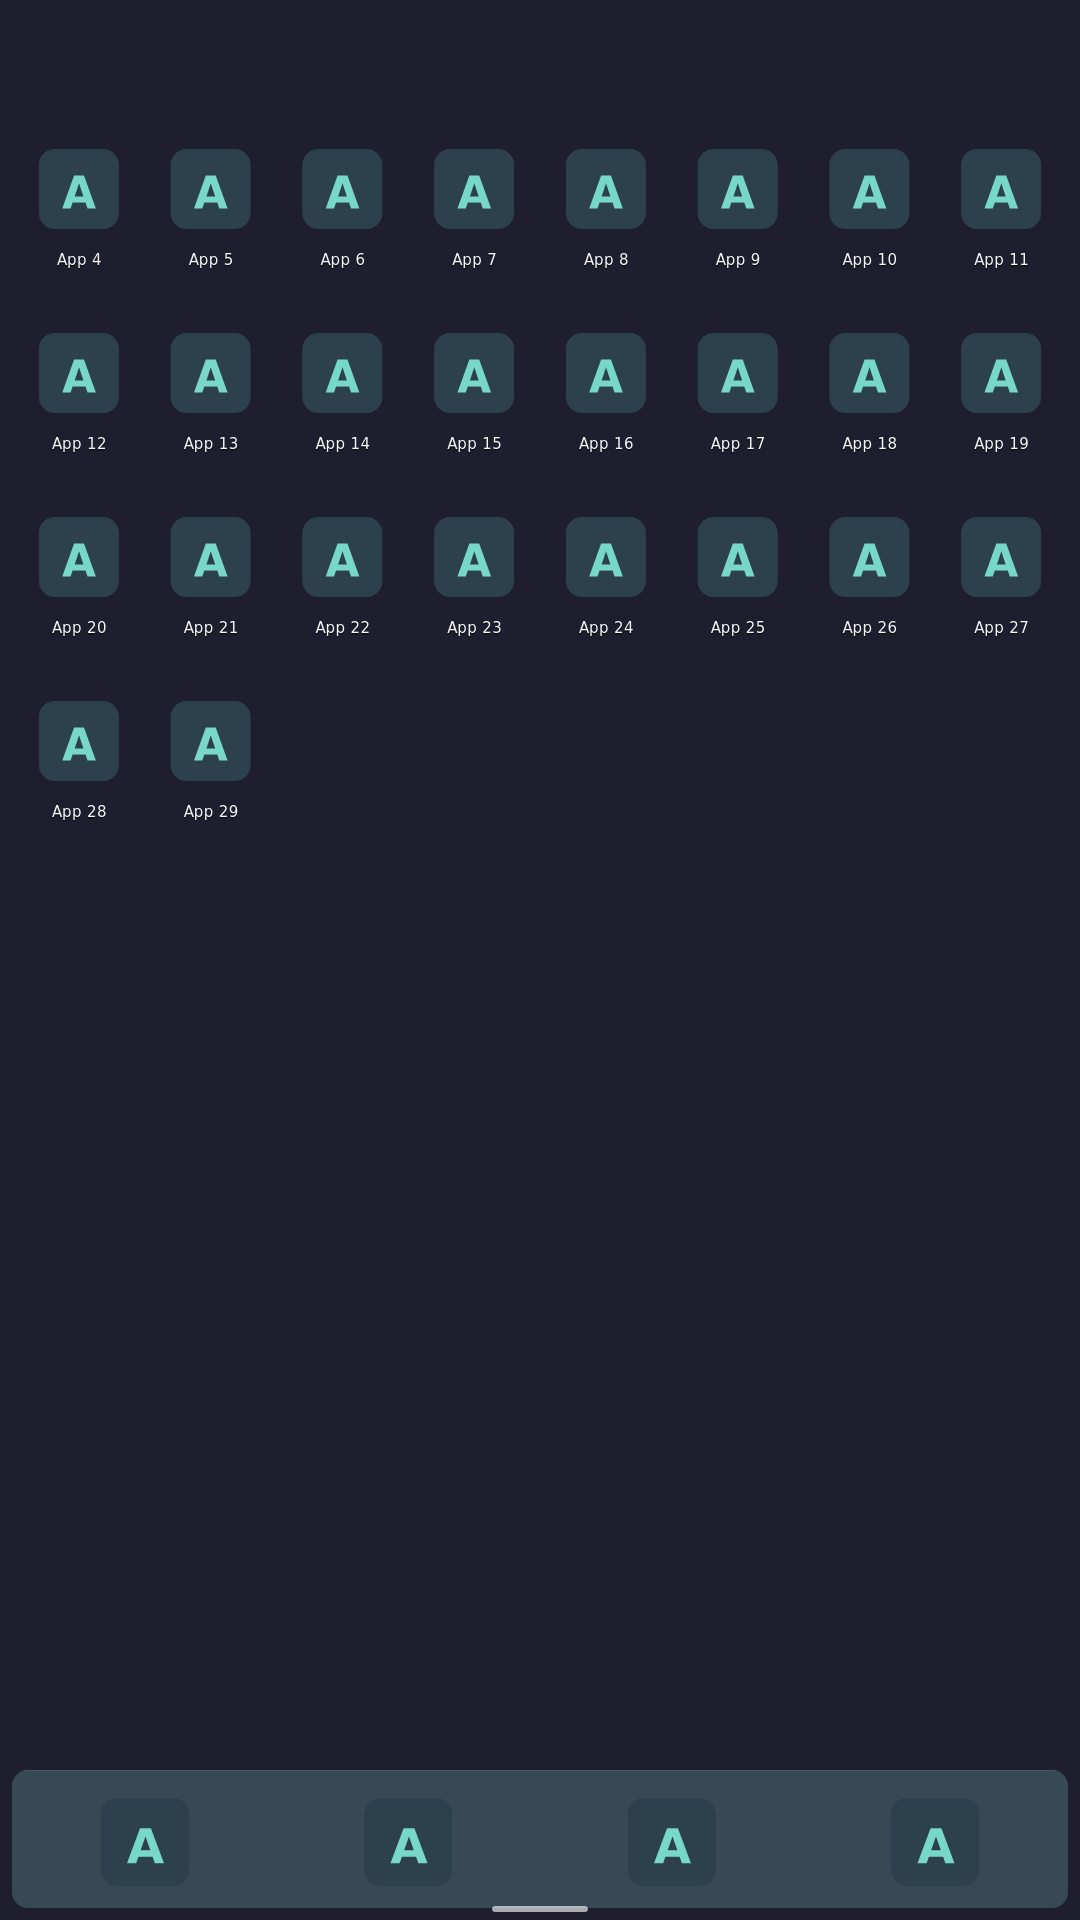
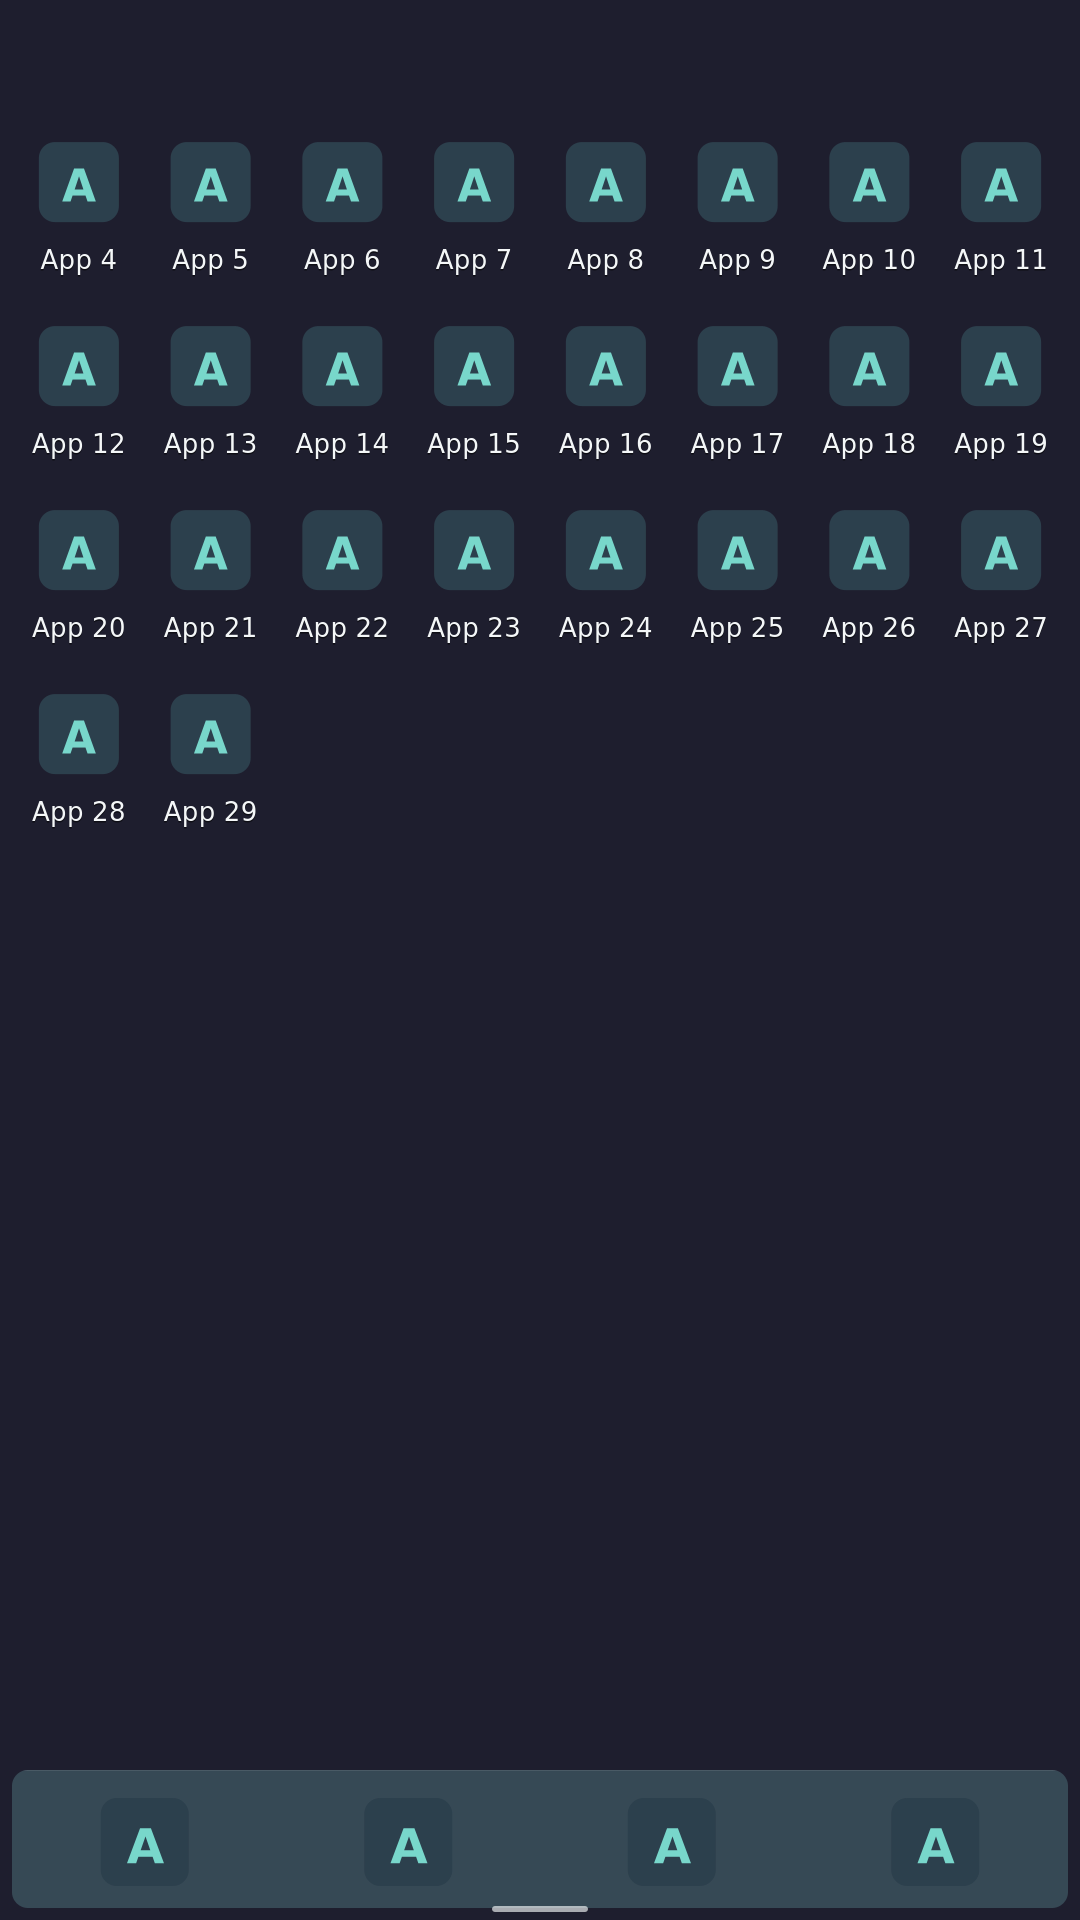
Home: app and folder labels in the 26 px Caption role
Labels span the whole cell and take the Caption role; a cell too short for
the full plate above that label (the landscape panel's compact rows) gets
a smaller plate (about 97 px) instead of a smaller label. Columns, pages
and saved layouts are unchanged, so 4-wide widgets stay put. At a larger
step a label grows only as far as its cell leaves room. Open folders use
the same content geometry (home_grid::content_in). The home-*.png
responsive baselines are updated deliberately (successor task 1.1).

diff --git a/nix/rust-shell-client/src/home_grid.rs b/nix/rust-shell-client/src/home_grid.rs
@@ -69,9 +69,9 @@ pub const ICON_SIZE: f64 = 80.0;
 /// "squircle" tile is visible even for icons with transparent edges.
 const ICON_PLATE_PAD: f64 = 14.0;
 pub const ICON_PLATE_SIZE: f64 = ICON_SIZE + ICON_PLATE_PAD * 2.0;
-/// Height reserved for one line of the (bold, ellipsized) name label below
-/// a grid icon's plate.
-const LABEL_HEIGHT: f64 = 20.0;
+/// Height reserved for one line of the name label below a grid icon's
+/// plate: the 26 px Caption role at 100%, with its line spacing.
+pub const LABEL_HEIGHT: f64 = crate::render::TYPE_CAPTION * 1.3;
 /// Gap between an icon's plate and its label.
 const ICON_LABEL_GAP: f64 = 8.0;
 
@@ -245,23 +245,45 @@ pub fn spanned_tile_rect(width: u32, height: u32, top_left: usize, span: (usize,
 /// tile cell is taller than an icon+label needs (see this module's top
 /// comment), and top-pinning it is exactly what made the first cut's icons
 /// read as "crammed at the top" of an otherwise-empty page.
+///
+/// A cell too short for the full plate above a Caption-role label (the
+/// landscape panel's compact rows) gets a smaller plate rather than a
+/// smaller label. The label spans the whole cell width.
 #[derive(Clone, Copy, Debug, PartialEq)]
 pub struct TileContent {
     pub plate_x: f64,
     pub plate_y: f64,
     pub plate_size: f64,
+    pub icon_size: f64,
+    pub label_x: f64,
     pub label_y: f64,
+    pub label_w: f64,
+    /// Height from `label_y` to the cell's bottom: the most one label line
+    /// may take at a larger text step.
+    pub label_room: f64,
 }
 
 pub fn tile_content(width: u32, height: u32, slot: usize, columns: usize) -> TileContent {
-    let (x, y, w, h) = tile_rect(width, height, slot, columns);
-    let content_h = ICON_PLATE_SIZE + ICON_LABEL_GAP + LABEL_HEIGHT;
+    content_in(tile_rect(width, height, slot, columns))
+}
+
+/// [`TileContent`] for any icon cell (a Home tile or an open folder's
+/// member).
+pub fn content_in(cell: (f64, f64, f64, f64)) -> TileContent {
+    let (x, y, w, h) = cell;
+    let plate = ICON_PLATE_SIZE.min(h - ICON_LABEL_GAP - LABEL_HEIGHT).min(w).max(0.0);
+    let content_h = plate + ICON_LABEL_GAP + LABEL_HEIGHT;
     let top = y + ((h - content_h) / 2.0).max(0.0);
+    let label_y = top + plate + ICON_LABEL_GAP;
     TileContent {
-        plate_x: x + (w - ICON_PLATE_SIZE) / 2.0,
+        plate_x: x + (w - plate) / 2.0,
         plate_y: top,
-        plate_size: ICON_PLATE_SIZE,
-        label_y: top + ICON_PLATE_SIZE + ICON_LABEL_GAP,
+        plate_size: plate,
+        icon_size: plate * ICON_SIZE / ICON_PLATE_SIZE,
+        label_x: x,
+        label_y,
+        label_w: w,
+        label_room: y + h - label_y,
     }
 }
 
@@ -675,10 +697,11 @@ mod tests {
         assert!(!compact(1232) && !compact(1024) && !compact(1080));
         assert!(compact(568));
         assert_eq!(rows_per_page(568), 2, "a 2-row widget fits a landscape page");
-        let content = ICON_PLATE_SIZE + ICON_LABEL_GAP + LABEL_HEIGHT;
         let (_, y0, _, h) = tile_rect(1232, 568, 0, 9);
         let (_, y1, _, _) = tile_rect(1232, 568, 9, 9);
-        assert!(h >= content, "plate and label fit the tile: {h} < {content}");
+        let content = tile_content(1232, 568, 0, 9);
+        assert!(content.plate_size >= 96.0, "a compact cell keeps a finger-sized plate");
+        assert!(content.label_room >= LABEL_HEIGHT, "a Caption-role label fits the tile: {h}");
         assert!(y1 + h <= grid_bottom(568) + 0.001, "the second row clears the dots");
         assert!(y0 >= GRID_TOP);
         assert!(apps_per_page(1232, 568) + dock_slots(1232, 568) <= 24, "page plus dock stays inside the icon cache");
@@ -914,7 +937,8 @@ mod tests {
             );
             assert!(x + w <= 1232.0 && y + h <= 568.0);
             // The tile holds the plate and its label.
-            assert!(h >= ICON_PLATE_SIZE + ICON_LABEL_GAP + LABEL_HEIGHT - 1.0, "member {index} fits its content");
+            let content = content_in((x, y, w, h));
+            assert!(content.plate_size >= 72.0 && content.label_room >= LABEL_HEIGHT, "member {index} fits its content");
             assert_eq!(
                 folder_app_at((x + w / 2.0, y + h / 2.0), 1232, 568, 16, 0.0),
                 Some(index),

diff --git a/nix/rust-shell-client/src/render.rs b/nix/rust-shell-client/src/render.rs
@@ -3694,10 +3694,21 @@ fn app_by_id<'a>(apps: &'a [AppEntry], id: &str) -> Option<&'a AppEntry> {
 /// doc comment): a soft dark shadow pass behind the themed label text, not
 /// just the plain themed color alone.
 fn shadowed_label(cr: &Context, value: &str, x: f64, y: f64, width: f64, size: f64, rgb: u32) {
+    shadowed_label_px(cr, value, x, y, width, context_font_size(cr, size), rgb);
+}
+
+/// An app or folder name under its icon: the Caption role at the current
+/// step, but never taller than the cell leaves room for.
+fn icon_label(cr: &Context, value: &str, content: &home_grid::TileContent, rgb: u32) {
+    let px = context_font_size(cr, TYPE_CAPTION).min(content.label_room / 1.3).max(TYPE_CAPTION);
+    shadowed_label_px(cr, value, content.label_x, content.label_y, content.label_w, px, rgb);
+}
+
+fn shadowed_label_px(cr: &Context, value: &str, x: f64, y: f64, width: f64, px: f64, rgb: u32) {
     let layout = pangocairo::functions::create_layout(cr);
     let mut font = FontDescription::new();
     font.set_family(FONT_FAMILY);
-    font.set_absolute_size(context_font_size(cr, size) * f64::from(pango::SCALE));
+    font.set_absolute_size(px * f64::from(pango::SCALE));
     font.set_weight(pango::Weight::Medium);
     layout.set_font_description(Some(&font));
     layout.set_text(value);
@@ -4920,12 +4931,11 @@ fn paint_open_folder(
         if Some(id.as_str()) == dragged_from_this_folder {
             continue;
         }
-        let (x, y, w, _h) = home_grid::folder_app_rect_inset(width, height, index, home.keyboard_inset);
-        let plate_size = w.min(home_grid::ICON_PLATE_SIZE);
-        let plate_x = x + (w - plate_size) / 2.0;
+        let content = home_grid::content_in(home_grid::folder_app_rect_inset(width, height, index, home.keyboard_inset));
         if let Some(app) = app_by_id(apps, id) {
-            paint_icon_plate(cr, theme, icons, app, plate_x, y, plate_size, plate_size * 0.72, false);
-            shadowed_label(cr, &app.name, x, y + plate_size + 6.0, w, 14.0, brush_rgb(theme, "launcher", "text", style.text));
+            paint_icon_plate(cr, theme, icons, app, content.plate_x, content.plate_y, content.plate_size,
+                content.icon_size, false);
+            icon_label(cr, &app.name, &content, brush_rgb(theme, "launcher", "text", style.text));
         }
     }
 }
@@ -5134,19 +5144,11 @@ pub fn paint_home(
                     content.plate_x,
                     content.plate_y,
                     content.plate_size,
-                    home_grid::ICON_SIZE,
+                    content.icon_size,
                     pressed == Some(this_slot),
                 );
                 if let Some(label) = label {
-                    shadowed_label(
-                        cr,
-                        &label,
-                        content.plate_x,
-                        content.label_y,
-                        content.plate_size,
-                        15.0,
-                        brush_rgb(theme, "launcher", "text", style.text),
-                    );
+                    icon_label(cr, &label, &content, brush_rgb(theme, "launcher", "text", style.text));
                 }
                 if home.rearranging {
                     paint_remove_badge(cr, theme, (content.plate_x, content.plate_y));
@@ -5284,7 +5286,7 @@ pub fn paint_home(
                     plate_x,
                     plate_y + plate_size + visual_inset(cr, 8.0),
                     plate_size,
-                    15.0,
+                    TYPE_CAPTION,
                     brush_rgb(theme, "launcher", "text", style.text),
                 );
             }

diff --git a/openspec/changes/the-rest-of-the-shell-text-takes-the-type-roles/design.md b/openspec/changes/the-rest-of-the-shell-text-takes-the-type-roles/design.md
@@ -8,10 +8,14 @@ shell text rather than ellipsize it.
 
 ## Decisions
 
-- **Home grid.** Size a cell from the plate, a gap and one 26 px label line
-  (two at larger steps) rather than from the plate alone. Fewer columns fit;
-  `home_grid::columns_for_width` and `HomeLayout::reflow_to` already handle a
-  column change. Folder overlays follow the same cell.
+- **Home grid.** Keep the column count and pages: fewer columns would push
+  a 4-wide widget (Clock, Battery details) off the landscape page and out of
+  a 3-column portrait page entirely. Instead the label takes the whole cell
+  width in the Caption role, and a cell too short for the full plate above
+  that label (the landscape panel's compact rows) gets a smaller plate.
+  At a larger step the label grows only as far as the cell leaves room.
+  App names longer than the cell are shortened, as the requirement allows.
+  Open folders use the same cell content.
 - **Widgets.** Captions use the Caption role scaled to the cell, with the
   role's floor at a Home-sized cell, as Battery details already does
   (`BATTERY_TEXT_FLOOR`).
@@ -20,5 +24,6 @@ shell text rather than ellipsize it.
 
 ## Risks
 
-- A Home grid with fewer columns moves a person's icons. The reflow keeps
-  their order; the board check confirms it on a populated layout.
+- The landscape plate shrinks from 108 to about 97 px; it stays above the
+  48 dp tap floor and the cell (the tap target) is unchanged.
+- Long app names ("Terminal", "Settings") are shortened in a narrow cell.

diff --git a/openspec/changes/the-rest-of-the-shell-text-takes-the-type-roles/tasks.md b/openspec/changes/the-rest-of-the-shell-text-takes-the-type-roles/tasks.md
@@ -1,9 +1,13 @@
 ## 1. Home
 
-- [ ] 1.1 Home app and folder labels in the Caption role, with cells sized to
-  hold them at each step and persisted layouts reflowed. Verify with `cargo
-  test --offline --manifest-path nix/rust-shell-client/Cargo.toml --tests`
-  (updating `home-*.png` baselines deliberately). Host class.
+- [x] 1.1 Home app and folder labels in the Caption role across the cell,
+  with a smaller plate where the cell is too short; columns, pages and saved
+  layouts unchanged. Verify with `cargo test --offline --manifest-path
+  nix/rust-shell-client/Cargo.toml --tests` (updating `home-*.png`
+  baselines deliberately). Host class.
+  Done 2026-10-19 (host): all test targets pass; `home_grid::content_in`
+  serves Home tiles and folder members, and the `home-*.png` baselines under
+  `docs/evidence/shell-responsive/` were updated deliberately.
 - [ ] 1.2 Battery and Weather widget captions on the Caption role with its
   floor at a Home-sized cell. Host renders at four steps in both
   orientations. Host class.

diff --git a/openspec/changes/the-rest-of-the-shell-text-takes-the-type-roles/proposal.md b/openspec/changes/the-rest-of-the-shell-text-takes-the-type-roles/proposal.md
@@ -16,8 +16,9 @@ text by hand, well under that floor:
 
 ## What Changes
 
-- Home's grid gets cells that hold an icon and a 26 px label at each text
-  step, migrating persisted page layouts through `HomeLayout::reflow_to`.
+- Home's app and folder labels take the 26 px Caption role across the
+  whole cell; a cell too short for the full icon plate above that label
+  gets a smaller plate. Columns, pages and saved layouts do not change.
 - Widget captions, the Shade's audio and notification rows, the Wi-Fi pages,
   the Help page, the theme grid and the recovery menu move onto the roles.
 - Each surface reflows without clipping, ellipsizing or overlapping its own

diff --git a/openspec/changes/the-rest-of-the-shell-text-takes-the-type-roles/specs/runtime/shell/spec.md b/openspec/changes/the-rest-of-the-shell-text-takes-the-type-roles/specs/runtime/shell/spec.md
@@ -14,7 +14,9 @@ all four text steps and in high contrast, in both orientations.
 #### Scenario: Home at 100%
 
 - **WHEN** a person looks at Home at the 100% step
-- **THEN** each app label is at least 26 px tall and sits inside its own cell
+- **THEN** each app label is set at 26 px or more and sits inside its own
+  cell
+- **AND** the page keeps its columns, so a 4-wide widget stays where it was
 
 #### Scenario: The Shade with audio playing
 
